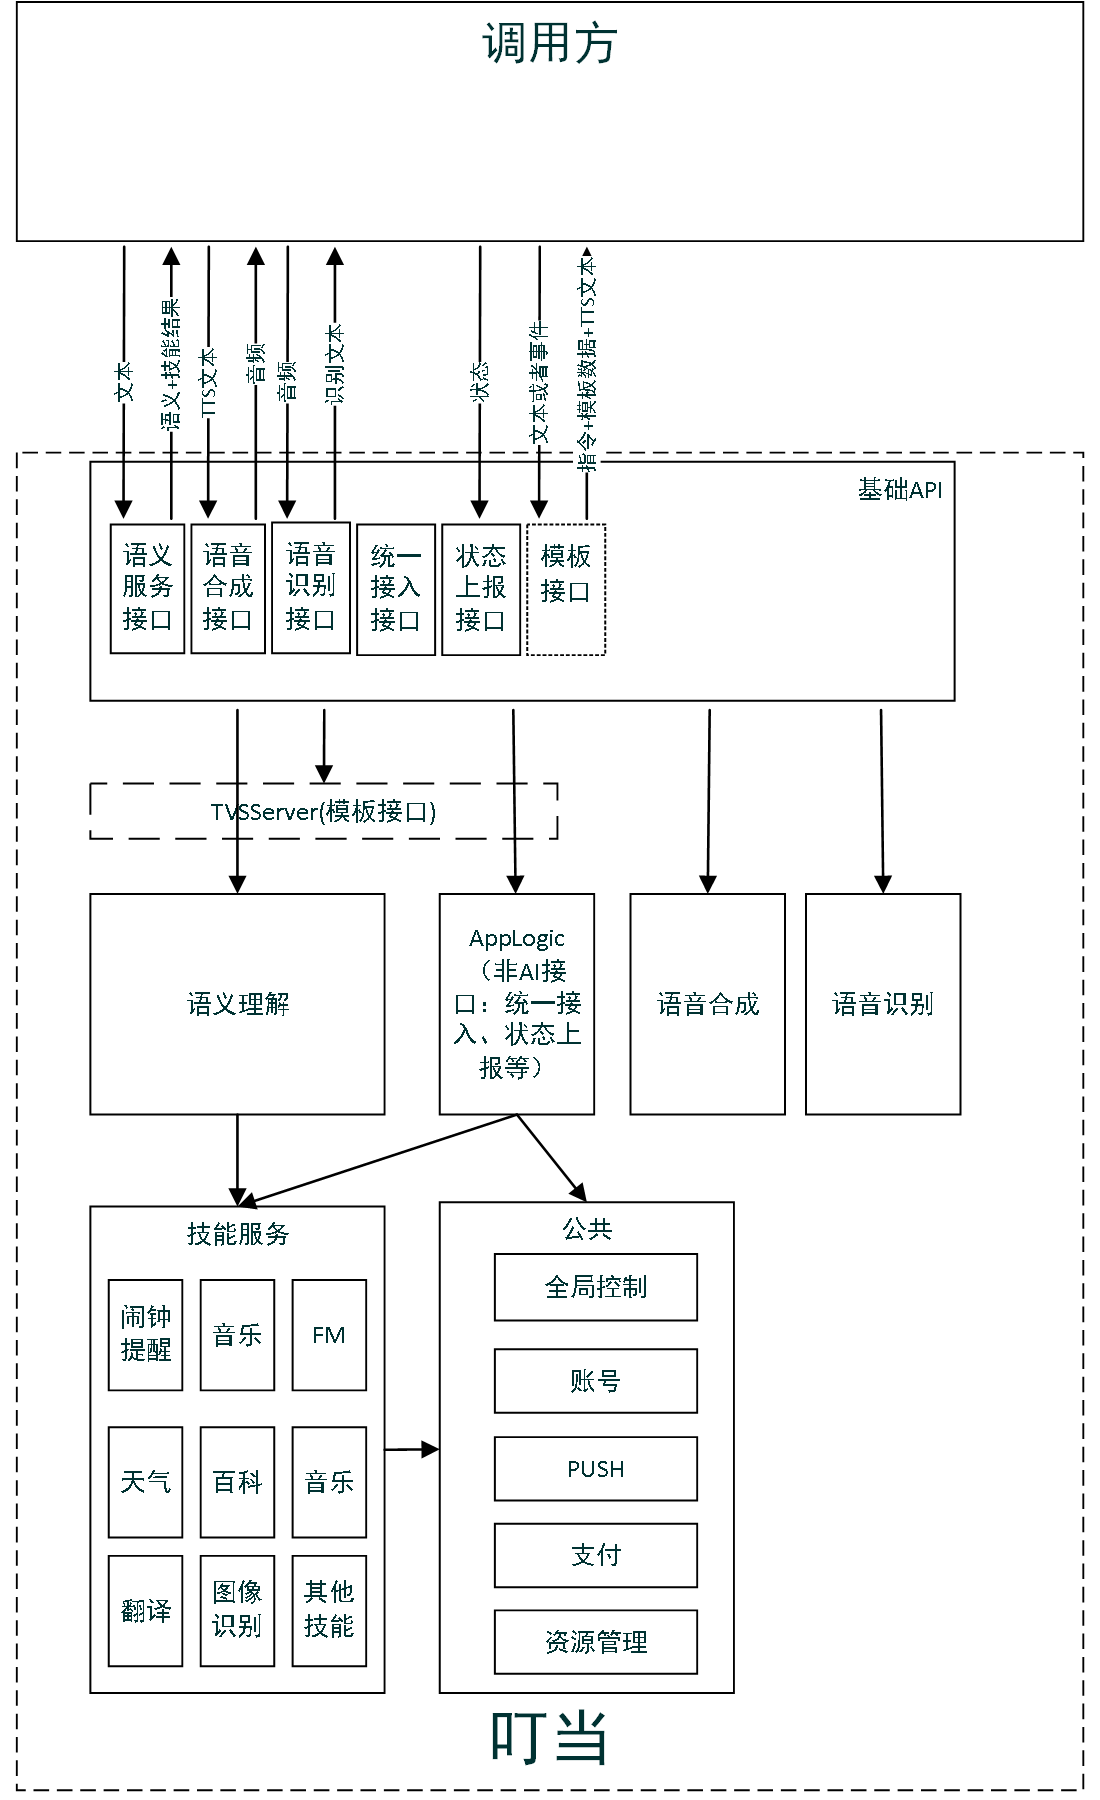
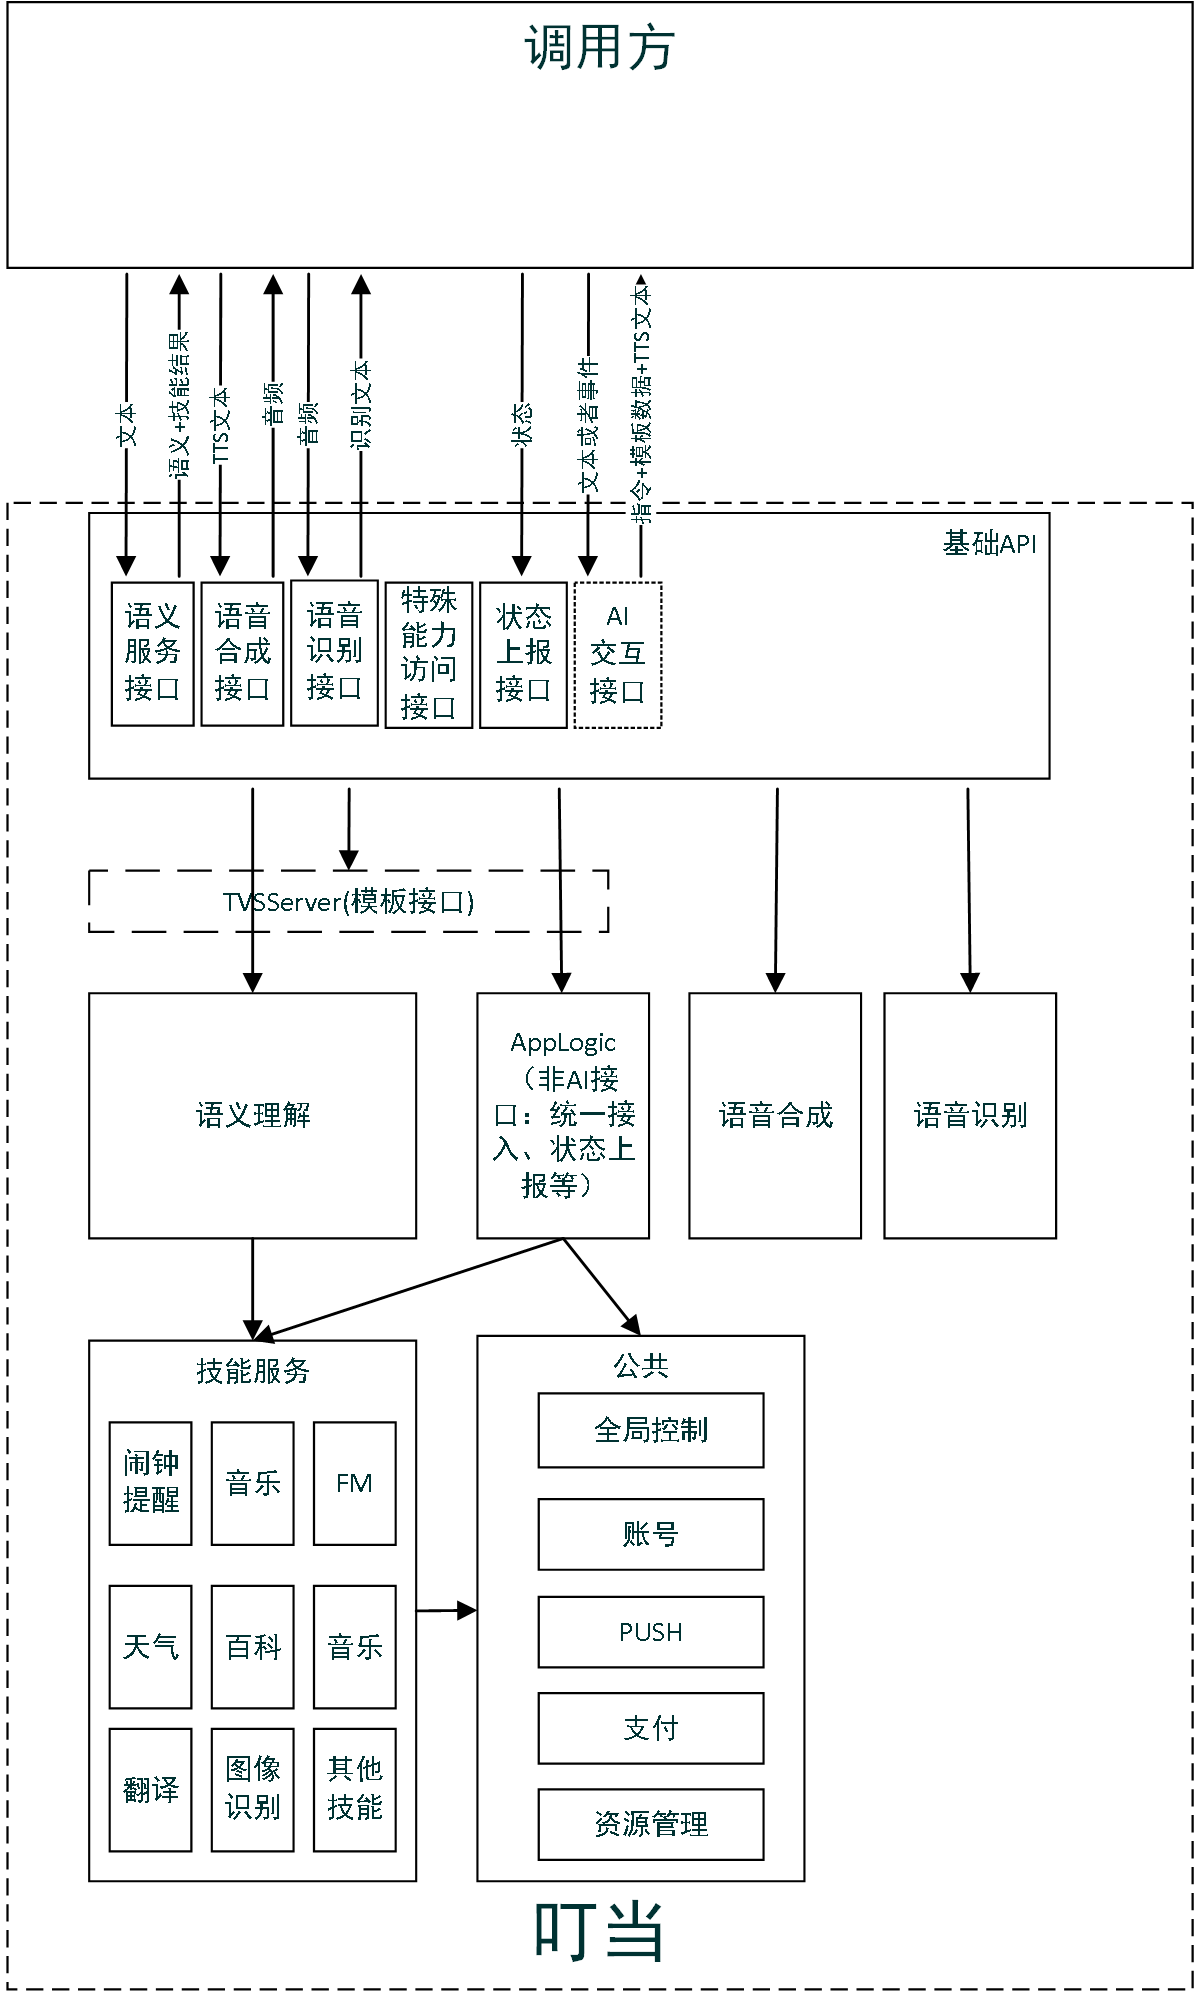
更新接口名称

diff --git a/doc/腾讯叮当HTTP方式接入API文档.md b/doc/腾讯叮当HTTP方式接入API文档.md
@@ -14,13 +14,13 @@
 
 ## 2 API接口能力
 
-| 接口名称        | 能力                                |
-| ----------- | --------------------------------- |
-| 语义理解+服务接口   | 提供文本转语义结构，并返回技能服务数据的能力。           |
-| 语音识别接口      | 提供流式/非流式语音识别能力。                   |
-| TTS接口（语音合成） | 提供语音合成的能力。                        |
-| 终端状态上报接口    | 上报终端状态，有助于后台提供更精准的语义服务结果          |
-| 统一接入接口      | 为终端提供访问叮当非AI的其他能力，如换取资源URL、访问智能家居 |
+| 接口名称      | 能力                                |
+| --------- | --------------------------------- |
+| 语义理解+服务接口 | 提供文本转语义结构，并返回技能服务数据的能力。           |
+| 语音识别接口    | 提供流式/非流式语音识别能力。                   |
+| 语音合成接口    | 提供语音合成的能力。                        |
+| 终端状态上报接口  | 上报终端状态，有助于后台提供更精准的语义服务结果          |
+| 特殊能力访问接口  | 为终端提供访问叮当非AI的其他能力，如换取资源URL、访问智能家居 |
 
 其基本架构为：
 ![Demo](img/api.png)
@@ -659,7 +659,7 @@ __URL__：`POST https://aiwx.html5.qq.com/api/tts`
 
 示例代码见1:	https://github.com/TencentDingdang/tvs-tools/tree/master/evaluate/script/tts.py
 
-### 7.5 终端上报接口
+### 7.5 终端状态上报接口
 #### 7.5.1 接口描述
 	为了给用户提供更多个性化的内容，保证更优的体验。终端可以通过上报接口向腾讯叮当上报终端的阅读、播放等状态。
 #### 7.5.2 请求参数
@@ -748,9 +748,9 @@ __URL__：`POST https://aiwx.html5.qq.com/api/v1/report`
 | `code`    | `int`    | 错误码：<br>`0`: 正常；<br>`其他`:异常 |
 | `message` | `string` | 错误消息                        |
 
-### 7.6 统一接入接口
+### 7.6 特殊能力访问接口
 #### 7.6.1 接口描述
-	统一接入接口提供终端访问后端各个服务特定接口的能力。本接口根据`payload.domain`和`payload.intent`提供不同的能力。见https://github.com/TencentDingdang/tvs-tools/blob/master/doc/uniAccess%E6%8E%A5%E5%8F%A3%E8%83%BD%E5%8A%9B.md
+	特殊能力访问接口提供终端访问后端各个服务特定接口的能力。本接口根据`payload.domain`和`payload.intent`提供不同的能力。见https://github.com/TencentDingdang/tvs-tools/blob/master/doc/uniAccess%E6%8E%A5%E5%8F%A3%E8%83%BD%E5%8A%9B.md
 #### 7.6.2 请求参数
 __URL__：`POST https://aiwx.html5.qq.com/api/v1/uniAccess`
 
